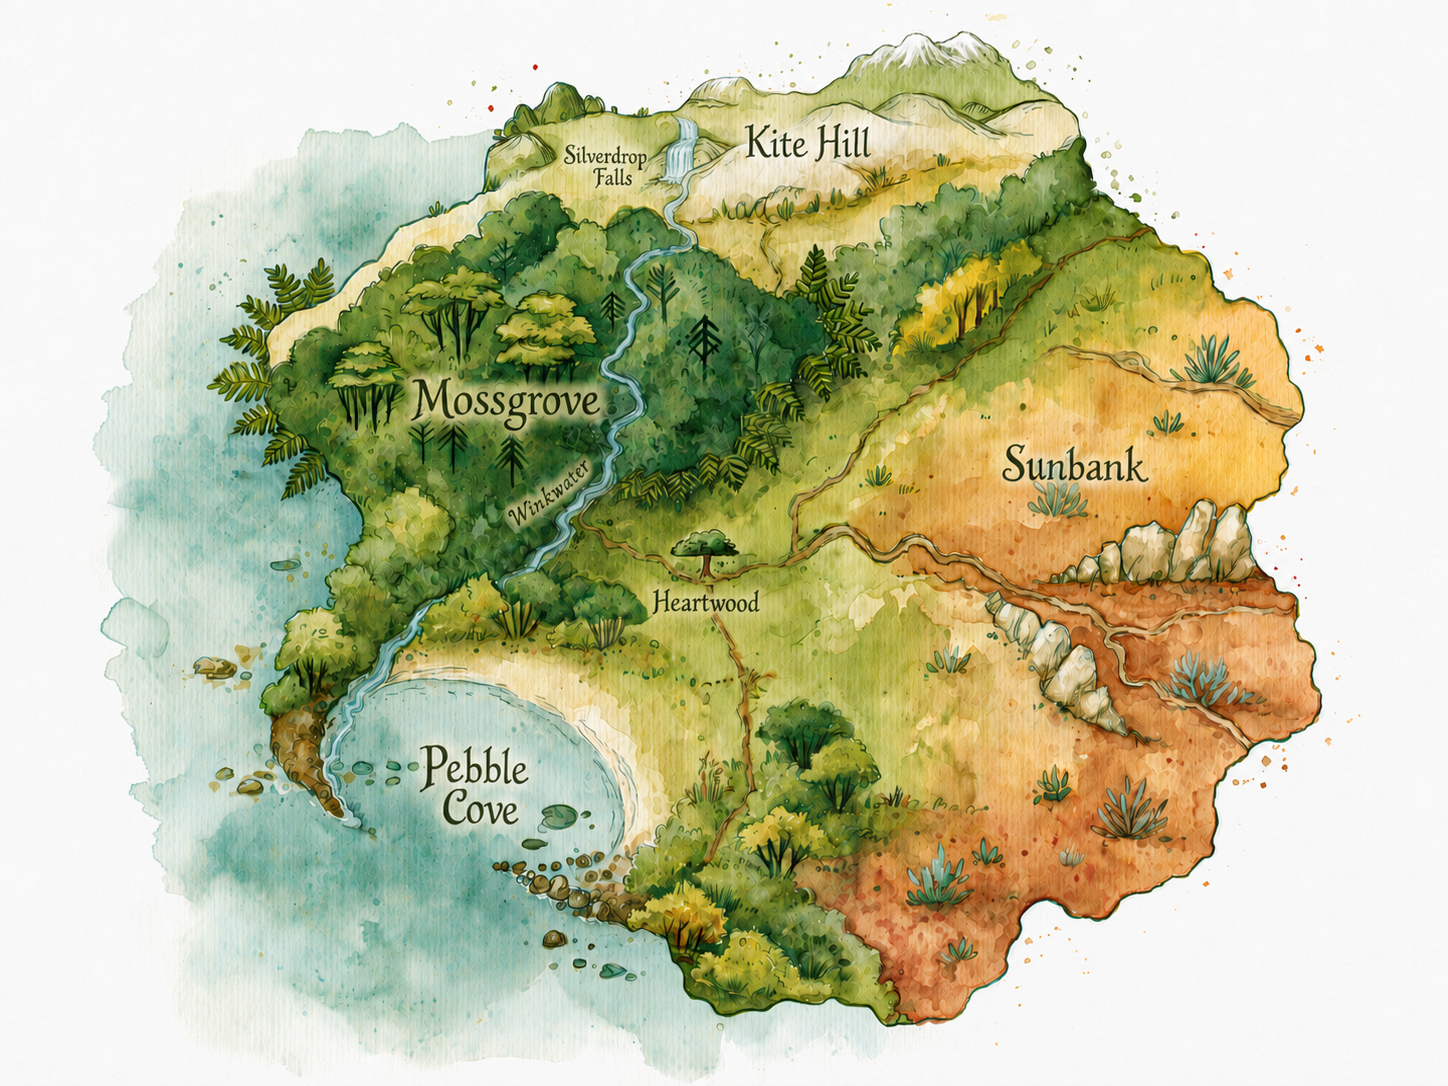
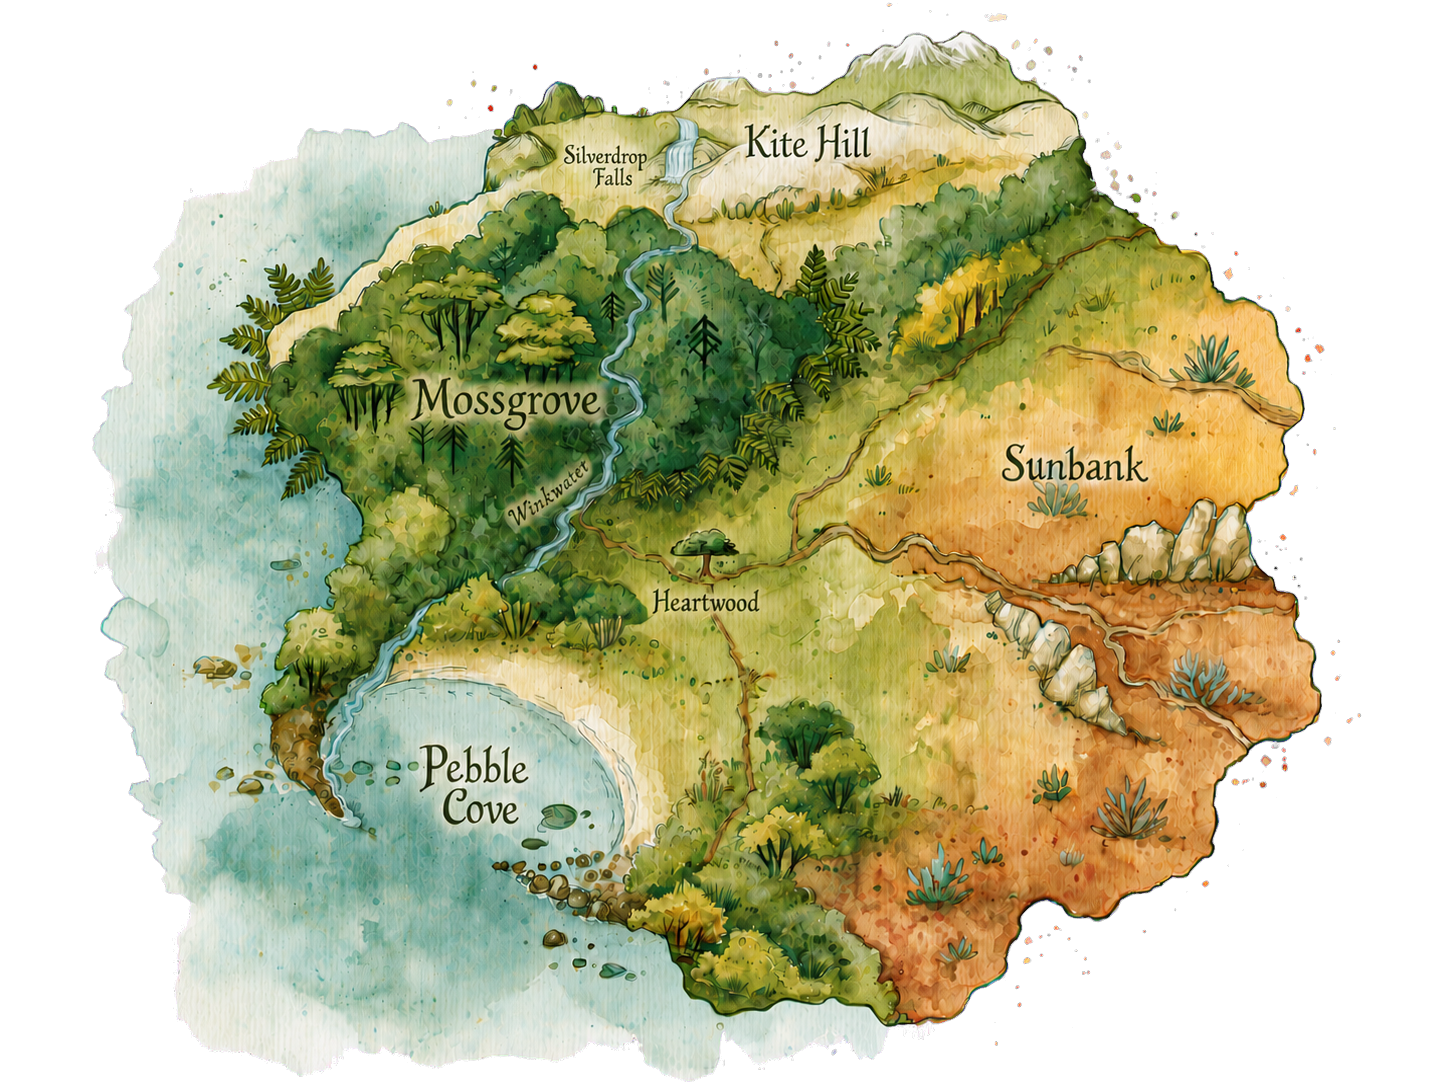
docs(lanternleaf): allow production map use

diff --git a/docs/universe/worlds/lanternleaf/geography-and-villages.md b/docs/universe/worlds/lanternleaf/geography-and-villages.md
@@ -73,9 +73,10 @@ This image is the **approved working geography reference**. It establishes:
 
 The map intentionally stops at regional character. It does not define
 individual homes, village plans, population, exact travel distance, or the
-final geometry of every living path. It also does not override Lanternleaf's
-scene medium or exact-white story matte; its pale paper field belongs only to
-the atlas reference.
+final geometry of every living path. Its transparent outer field allows it to
+sit cleanly on a production surface if a story needs the regional map. Runtime
+use still follows that story package's backdrop, composition, and asset-quality
+checks.
 
 ### Regional map rules
 
